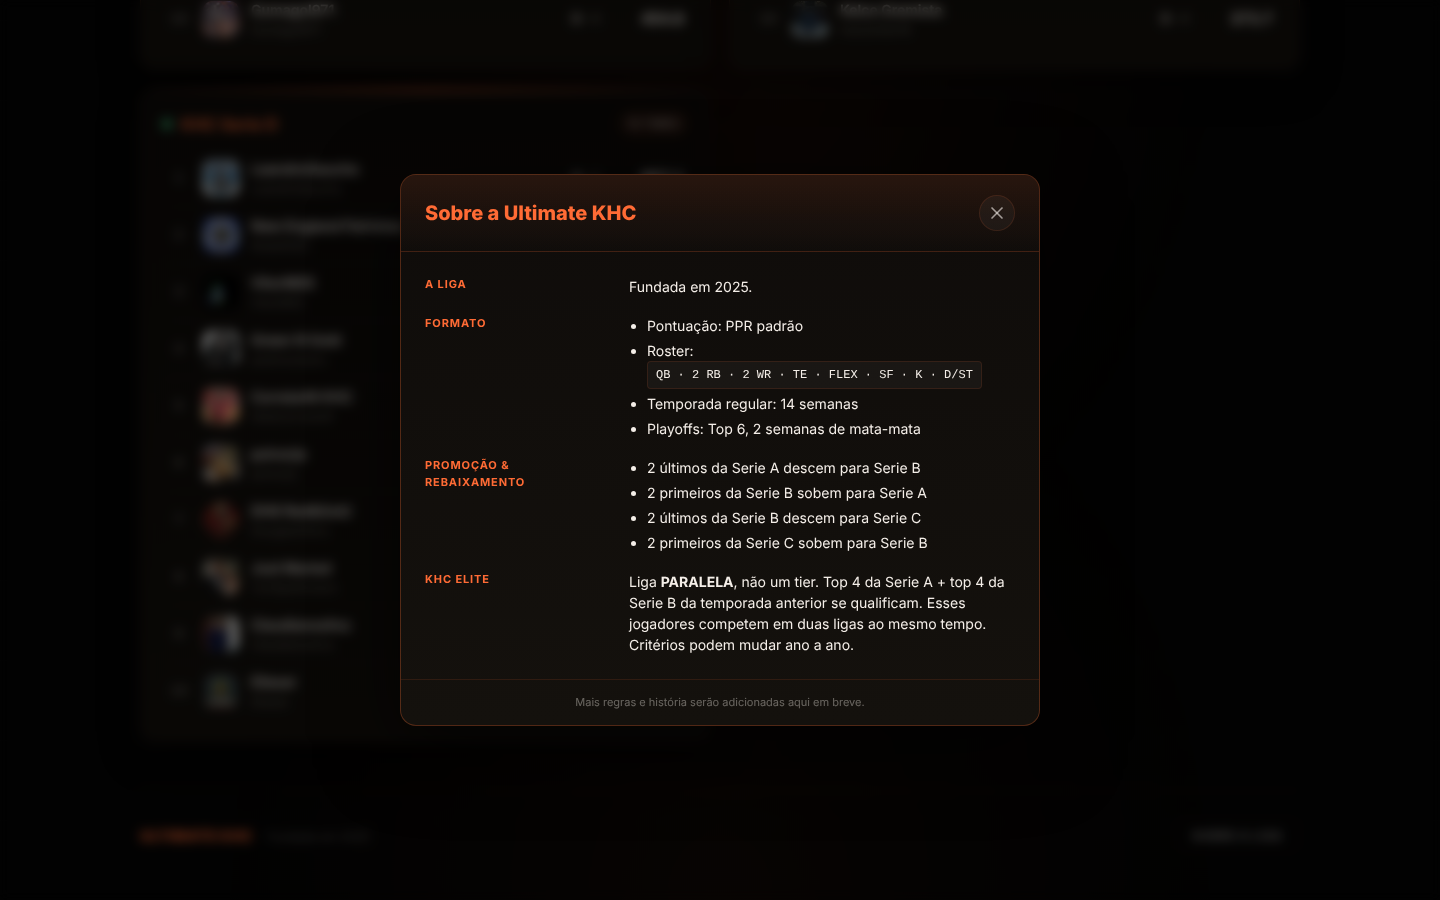
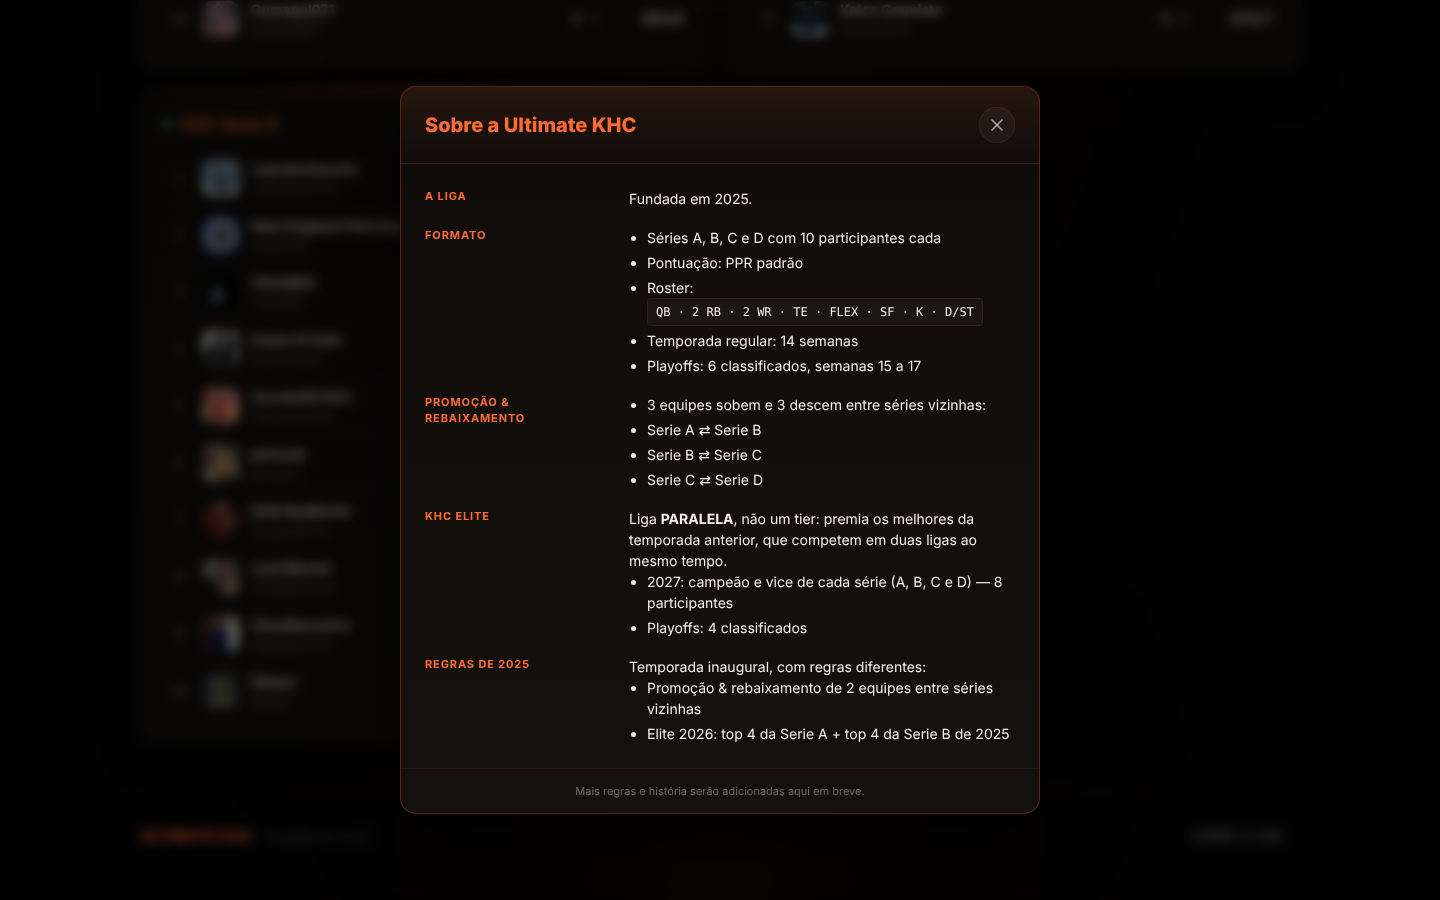
feat(conteudo): regras atuais no modal Sobre + subtítulo por temporada
- Modal: séries A–D com 10 participantes, playoff com 6 (semanas 15–17,
  conferido nas configurações da Sleeper), 3 sobem/3 descem, Elite
  paralela (2027: campeão e vice de cada série; playoff com 4). Regras
  da temporada inaugural de 2025 em seção própria.
- Header: subtítulo das séries gerado a partir de KHC_CONFIG conforme a
  temporada selecionada (inclui Serie D em 2026).

Claude-Session: https://claude.ai/code/session_01Bfcibmf1UqX98e5nufTurY

diff --git a/js/ui/modal.js b/js/ui/modal.js
@@ -2,7 +2,6 @@
 // UI / MODAL — About modal (Fase 4.B).
 // Vanilla module, sem dependências externas além das globais do projeto:
 //   - IconRegistry.close (icons.js)
-//   - KHC_CONFIG (config.js) para computar nº de temporadas finalizadas
 //   - escapeHtml (sanitize.js) — não usado aqui pois copy é estática controlada,
 //     mas mantido como dependência opcional para futuras extensões.
 //
@@ -53,7 +52,9 @@
     // -------------------------------------------------------------------------
 
     /**
-     * Constrói o HTML do corpo do modal a partir de KHC_CONFIG.
+     * Constrói o HTML do corpo do modal. Copy estática: regras atuais
+     * (a partir de 2026) + regras da temporada inaugural (2025), que eram
+     * diferentes. Playoffs conferidos nas configurações das ligas na Sleeper.
      */
     function buildBodyHTML() {
         return `
@@ -64,29 +65,41 @@
                 <dt>Formato</dt>
                 <dd>
                     <ul>
+                        <li>Séries A, B, C e D com 10 participantes cada</li>
                         <li>Pontuação: PPR padrão</li>
                         <li>Roster: <code>QB · 2 RB · 2 WR · TE · FLEX · SF · K · D/ST</code></li>
                         <li>Temporada regular: 14 semanas</li>
-                        <li>Playoffs: Top 6, 2 semanas de mata-mata</li>
+                        <li>Playoffs: 6 classificados, semanas 15 a 17</li>
                     </ul>
                 </dd>
 
                 <dt>Promoção &amp; Rebaixamento</dt>
                 <dd>
                     <ul>
-                        <li>2 últimos da Serie A descem para Serie B</li>
-                        <li>2 primeiros da Serie B sobem para Serie A</li>
-                        <li>2 últimos da Serie B descem para Serie C</li>
-                        <li>2 primeiros da Serie C sobem para Serie B</li>
+                        <li>3 equipes sobem e 3 descem entre séries vizinhas:</li>
+                        <li>Serie A ⇄ Serie B</li>
+                        <li>Serie B ⇄ Serie C</li>
+                        <li>Serie C ⇄ Serie D</li>
                     </ul>
                 </dd>
 
                 <dt>KHC Elite</dt>
                 <dd>
-                    Liga <strong>PARALELA</strong>, não um tier. Top 4 da Serie A + top 4
-                    da Serie B da temporada anterior se qualificam. Esses jogadores
-                    competem em duas ligas ao mesmo tempo. Critérios podem mudar
-                    ano a ano.
+                    Liga <strong>PARALELA</strong>, não um tier: premia os melhores da
+                    temporada anterior, que competem em duas ligas ao mesmo tempo.
+                    <ul>
+                        <li>2027: campeão e vice de cada série (A, B, C e D) — 8 participantes</li>
+                        <li>Playoffs: 4 classificados</li>
+                    </ul>
+                </dd>
+
+                <dt>Regras de 2025</dt>
+                <dd>
+                    Temporada inaugural, com regras diferentes:
+                    <ul>
+                        <li>Promoção &amp; rebaixamento de 2 equipes entre séries vizinhas</li>
+                        <li>Elite 2026: top 4 da Serie A + top 4 da Serie B de 2025</li>
+                    </ul>
                 </dd>
             </dl>
         `;

diff --git a/js/app.js b/js/app.js
@@ -59,6 +59,7 @@ async function loadData() {
     appState.isFromCache = false;
 
     const config = KHC_CONFIG[appState.season];
+    renderSeriesSubtitle(config);
 
     if (!config || !config.leagues.length) {
         container.innerHTML = '<div class="loading">Dados desta temporada ainda não configurados.</div>';
@@ -168,6 +169,22 @@ async function loadData() {
     renderLegends();
     renderSeasons();
     appState.isLoading = false;
+}
+
+/**
+ * Subtítulo do header com as séries da temporada selecionada
+ * (Serie A → D, Elite por último). Mantém o HTML estático se não houver config.
+ * @param {{leagues: Array<{name: string, tier: string}>}|undefined} config
+ */
+function renderSeriesSubtitle(config) {
+    const el = document.getElementById('seriesSubtitle');
+    if (!el || !config || !config.leagues.length) return;
+    const order = VALIDATION.VALID_TIERS; // serie-a … serie-d, elite
+    const names = config.leagues
+        .slice()
+        .sort((a, b) => order.indexOf(a.tier) - order.indexOf(b.tier))
+        .map(l => escapeHtml(l.name.replace(/^KHC\s+/i, '')));
+    el.innerHTML = names.map(n => `<span>${n}</span>`).join('');
 }
 
 function clearSecondaryContainers() {

diff --git a/index.html b/index.html
@@ -20,10 +20,12 @@
                 <img src="assets/khc-logo.png" alt="Ultimate League KHC" class="brand-logo-img">
             </div>
             <h1 class="brand-title">ULTIMATE KHC</h1>
-            <p class="brand-subtitle">
+            <!-- Atualizado por renderSeriesSubtitle() (app.js) conforme a temporada -->
+            <p class="brand-subtitle" id="seriesSubtitle">
                 <span>Serie A</span>
                 <span>Serie B</span>
                 <span>Serie C</span>
+                <span>Serie D</span>
                 <span>Elite</span>
             </p>
         </header>

diff --git a/review/UI-UX-REVIEW.md b/review/UI-UX-REVIEW.md
@@ -53,7 +53,7 @@ Qualquer proposta do Claude Design precisa ser implementável como **HTML/CSS es
 
 ### 3.1 Global (header, controles, fundo)
 - **Header grande demais no mobile**: logo 82px + título 36px + subtítulo + select + 2 linhas de abas. O conteúdo começa só em ~45% da 1ª tela (`screens/mobile-first-viewport.png`).
-- **Subtítulo desatualizado**: "Serie A • Serie B • Serie C • Elite" — falta **Serie D** (já existe em 2026). Melhor gerar a partir de `KHC_CONFIG`.
+- ~~**Subtítulo desatualizado** (faltava Serie D)~~ — ✅ corrigido: agora é gerado a partir de `KHC_CONFIG` conforme a temporada selecionada (2026: A, B, C, D, Elite · 2025: A, B).
 - **Logo é um JPEG quadrado com fundo preto** (`khc-logo.png` é na verdade JPEG). Fica um "quadrado" visível sobre o fundo; precisa de PNG/SVG transparente. `logo.jpg` e `khc-logo.png` são o mesmo arquivo.
 - **Ruído de fundo**: linhas horizontais + 2 vinhetas laranja + marca d'água do logo atrás do conteúdo. A marca d'água aparece atrás das abas e cards (visível nas screenshots).
 - **Seletor de temporada isolado** acima das abas, sem relação visual com o conteúdo; "Temporada 2025 (Arquivo)" é texto longo.
@@ -106,7 +106,10 @@ Qualquer proposta do Claude Design precisa ser implementável como **HTML/CSS es
 - Boa base (`screens/desktop-drawer.png`). Problemas: conquistas zeradas ocupam muito espaço com cor; ~~estatísticas inconsistentes (B7)~~ corrigido; "Pontos totais 2045.46" com 2 casas enquanto o resto usa 1; sem link para o perfil Sleeper; sem gráfico/evolução.
 
 ### 3.8 Modal "Sobre a Liga"
-- Regras desatualizadas: promoção/rebaixamento só cita A/B/C (falta D); critério da Elite cita "top 4 da A + top 4 da B" — **confirmar a regra atual**.
+- ~~Regras desatualizadas~~ — ✅ corrigido com as regras confirmadas: séries A–D com 10 participantes, 6 no playoff
+  (semanas 15–17, conferido na Sleeper — o texto antigo dizia "2 semanas"), 3 sobem/3 descem; Elite paralela com os
+  melhores da temporada anterior (2027: campeão e vice de cada série, 8 participantes; playoff com 4). As regras de
+  2025 (2 sobem/2 descem; Elite 2026 = top 4 da A + top 4 da B) ficaram numa seção "Regras de 2025".
 - Rodapé "Mais regras e história serão adicionadas aqui em breve" passa sensação de inacabado.
 - O conteúdo merece uma página/aba própria ("Regras") em vez de um botão discreto no rodapé.
 
@@ -143,10 +146,13 @@ Qualquer proposta do Claude Design precisa ser implementável como **HTML/CSS es
 ## 6. Brief para o Claude Design
 
 ### 6.1 Contexto do produto
-- **O que é:** hub de uma comunidade brasileira de Fantasy Football (NFL) na Sleeper. ~50 jogadores, 4 divisões com acesso/descenso (Serie A, B, C, D) + **KHC Elite** (liga paralela de convidados — top da temporada anterior; um jogador pode estar em 2 ligas).
+- **O que é:** hub de uma comunidade brasileira de Fantasy Football (NFL) na Sleeper. ~40 jogadores, 4 divisões com acesso/descenso (Serie A, B, C, D) + **KHC Elite** (liga paralela — melhores da temporada anterior; um jogador pode estar em 2 ligas).
 - **Quem usa:** os próprios membros, majoritariamente **no celular**, para checar classificação, provocar os amigos e ver histórico/troféus.
 - **Momentos-chave:** (1) durante a temporada — "como está minha liga essa semana?"; (2) fim de temporada — campeões, acesso/rebaixamento; (3) entre temporadas — lendas e histórico.
-- **Formato da temporada:** 14 semanas regulares, playoffs top 6 em 2 semanas, pontuação PPR, roster `QB · 2 RB · 2 WR · TE · FLEX · SF · K · D/ST`.
+- **Formato da temporada (2026+):** 4 séries (A–D) com 10 participantes, 14 semanas regulares, playoffs com 6 times nas
+  semanas 15–17, 3 sobem / 3 descem entre séries vizinhas, pontuação PPR, roster `QB · 2 RB · 2 WR · TE · FLEX · SF · K · D/ST`.
+  **Elite:** paralela, melhores da temporada anterior (2027: campeão e vice de cada série = 8), playoff com 4.
+  **2025 (inaugural):** só Serie A (10) e B (12), 2 sobem / 2 descem.
 - **Tom:** competitivo, "resenha", orgulho de clube. Referências possíveis: apps de futebol (Sofascore, OneFootball), ESPN Fantasy.
 
 ### 6.2 Telas e conteúdo (inventário)
@@ -323,13 +329,13 @@ Career = { user, currentSeries, trophies:{gold,silver,bronze,fourth}, totalSeaso
 
 1. **Header compacto + navegação fixa**: header pequeno (logo 32–40px + nome) e abas como barra fixa no topo (desktop) / **bottom nav** no mobile. Seletor de temporada como chip/segmented control junto ao título.
 2. **"Minha liga" primeiro**: deixar o usuário escolher sua série/jogador (localStorage) e abrir nela; ou abas internas por série em vez de 5 cards empilhados.
-3. **Zonas na classificação**: faixa lateral colorida para promoção (top 2), playoffs (top 6) e rebaixamento (últimos 2), com legenda. Cabeçalho de colunas (V–D, PF, PA).
+3. **Zonas na classificação**: faixa lateral colorida para playoffs (top 6), promoção (3) e rebaixamento (últimos 3), com legenda. Cabeçalho de colunas (V–D, PF, PA). Atenção: em 2025 eram 2 sobem / 2 descem — as zonas precisam ser por temporada.
 4. **Status ao vivo**: "Semana 4 de 14 · atualizado há 2 min" + botão atualizar (a semana já é buscada da Sleeper em `appState.nflState`).
 5. **Top Scorers**: avatar + dono + série; toggle "Incluir Elite"; filtro por série; sem cascata longa de animação.
 6. **Power Ranking**: tiers como cabeçalhos horizontais também no desktop, nomes em PT-BR, explicação do cálculo num tooltip/“?”; variação semanal só com histórico real.
 7. **Lendas como "Hall da Fama"**: pódio visual do top-3, avatares, linha do tempo de campeões por ano/série.
 8. **Perfil do jogador com URL própria** (`#/jogador/nome`) — compartilhável no grupo.
-9. **Página "Regras"** no lugar do modal escondido no rodapé, incluindo Serie D e a regra atual da Elite.
+9. **Página "Regras"** no lugar do modal escondido no rodapé (o conteúdo já está atualizado, incluindo o histórico de 2025).
 10. **Fundo mais limpo**: remover marca d'água atrás do conteúdo; usar o laranja como acento, não como cor de todo título.
 
 ---
@@ -340,7 +346,8 @@ Career = { user, currentSeries, trophies:{gold,silver,bronze,fourth}, totalSeaso
 |---|---|
 | ✅ Feito | B1–B10 (medalhas, troca de temporada, Serie D no drawer, setas falsas, semana fixa, tier mobile, stats do drawer, séries atuais em temporada arquivada, escape de nomes, scroll lock) |
 | ✅ Feito | Classificação de temporadas finalizadas ordenada pelo resultado final dos playoffs |
-| Agora (conteúdo / produto) | Subtítulo e modal sem Serie D (confirmar regra da Elite) |
+| ✅ Feito | Subtítulo por temporada + modal "Sobre" com as regras atuais e as de 2025 |
+| A confirmar | Critério de quem sobe/desce: classificação final (com playoffs) ou temporada regular? |
 | Redesign (Claude Design) | Header/navegação mobile · zonas na classificação · Top Scorers · Power Ranking · Lendas · tokens/escala/contraste |
 | Depois | URL por aba/perfil · dados ao vivo (semana, matchups, bracket) · limpeza do CSS morto |
 
@@ -354,4 +361,4 @@ Career = { user, currentSeries, trophies:{gold,silver,bronze,fourth}, totalSeaso
 | `desktop-2025-leagues.png`, `mobile-2025-leagues.png` | Temporada finalizada: medalhas (B1) e ordem pelo resultado final |
 | `desktop-2025-global.png`, `desktop-2025-power.png` | Temporada finalizada |
 | `mobile-2026-power.png` | B6 corrigido — tier como faixa horizontal |
-| `*-drawer.png`, `*-modal.png` | Perfil do jogador (mobile já com B7 corrigido) e Sobre a Liga |
+| `*-drawer.png`, `*-modal.png` | Perfil do jogador (mobile já com B7 corrigido) e Sobre a Liga (regras atualizadas) |
